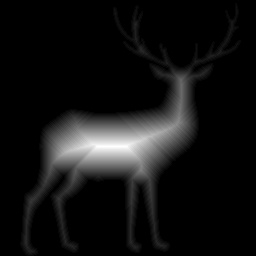
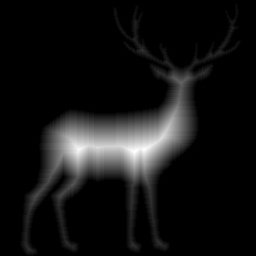
Refactor image processing code and fix variable initialization in Q class

diff --git a/HW3/110590004_hw3.py b/HW3/110590004_hw3.py
@@ -18,9 +18,9 @@ def problem(func):
 
 class Q:
     def __init__(self):
-        # self.origin_images = [cv2.imread(
-        #     './images/img' + str(i) + '.jpg') for i in range(1, 5)]
-        self.origin_images = [cv2.imread('./images/test_32.png')]
+        self.origin_images = [cv2.imread(
+            './images/img' + str(i) + '.jpg') for i in range(1, 5)]
+        # self.origin_images = [cv2.imread('./images/test_32.png')]
         self.images = []
         for i in range(1, self.origin_images.__len__() + 1):
             thresh = 0
@@ -135,9 +135,13 @@ class Q:
             if np.sum(neighbors[:, 0]) != 0 and np.sum(neighbors[:, 2]) != 0 and np.sum(neighbors[:, 1]) == 0:
                 return True
             # analog corner conditions
-            if neighbors[0, 0] != 0 and neighbors[2, 2] != 0 and (neighbors[0, 2] == 0 or neighbors[2, 0] == 0):
+            if neighbors[0, 0] != 0 and neighbors[2, 2] != 0 and neighbors[1, 2] == 0 and neighbors[2, 1] == 0 and neighbors[0, 1] != 0 and neighbors[1, 0] != 0:
                 return True
-            if neighbors[0, 2] != 0 and neighbors[2, 0] != 0 and (neighbors[0, 0] == 0 and neighbors[2, 2] == 0):
+            if neighbors[0,0 ] != 0 and neighbors[2, 2] != 0 and neighbors[1, 0] == 0 and neighbors[0, 1] == 0 and neighbors[1, 2] != 0 and neighbors[2, 1] != 0:
+                return True
+            if neighbors[0, 2] != 0 and neighbors[2, 0] != 0 and neighbors[1, 0] == 0 and neighbors[2, 1] == 0 and neighbors[0, 1] != 0 and neighbors[1, 2] != 0:
+                return True
+            if neighbors[0, 2] != 0 and neighbors[2, 0] != 0 and neighbors[1, 2] == 0 and neighbors[0, 1] == 0 and neighbors[1, 0] != 0 and neighbors[2, 1] != 0:
                 return True
             return False
 
@@ -147,9 +151,9 @@ class Q:
             # 8-distance transform
             print('8-distance transform...')
             for i in range(imgs.__len__()):
+                max_h = 0
                 width, height = imgs[i].shape
                 f0 = np.zeros((width, height))
-                fm = np.zeros((width, height))
                 for row in range(width):
                     for col in range(height):
                         if imgs[i][row][col] == 0:
@@ -157,6 +161,7 @@ class Q:
                         else:
                             f0[row][col] = 1
                 f_pre = deepcopy(f0)
+                fm = np.zeros((width, height))
                 local_max = np.zeros((width, height))
                 while True:
                     flag = 0
@@ -167,15 +172,17 @@ class Q:
                                 if f0[row][col] == 0:
                                     bar()
                                     continue
-                                neighbors = get_neighbors_8(
+                                neighbors = get_neighbors_4(
                                     f_pre, row, col, width, height)
-                                fm[row, col] = f0[row, col] + np.min(neighbors)
+                                fm[row, col] = f0[row, col] + min(
+                                    neighbors[0, 1], neighbors[1, 0], neighbors[1, 2], neighbors[2, 1])
                                 local_max[row, col] = 1 if fm[row,
                                                               col] >= np.max(neighbors) else 0
                                 if fm[row][col] != f_pre[row][col]:
                                     flag = 1
                                 bar()
                     f_pre = deepcopy(fm)
+
                     if flag == 0:
                         break
                 temp = np.zeros((width, height, 3))
@@ -187,91 +194,92 @@ class Q:
                     # print()
                 cv2.imwrite('./results/img' + str(i + 1) + '_q1-1.jpg', temp)
 
-                boundary_points = set()
-                for row in range(width):
-                    for col in range(height):
-                        if (fm[row][col] != 1):
-                            continue
-                        neighbors = get_neighbors_8(
-                            fm, row, col, width, height)
-                        for x in range(-1, 2):
-                            for y in range(-1, 2):
-                                if neighbors[x + 1][y + 1] == 0 and (row + x >= 0 and row + x < width and col + y >= 0 and col + y < height):
-                                    boundary_points.add((row + x, col + y))
+                # boundary_points = set()
+                # for row in range(width):
+                #     for col in range(height):
+                #         if (fm[row][col] != 1):
+                #             continue
+                #         neighbors = get_neighbors_8(
+                #             fm, row, col, width, height)
+                #         for x in range(-1, 2):
+                #             for y in range(-1, 2):
+                #                 if neighbors[x + 1][y + 1] == 0 and (row + x >= 0 and row + x < width and col + y >= 0 and col + y < height):
+                #                     boundary_points.add((row + x, col + y))
                 # draw boundary points
-                temp = np.zeros((width, height, 3))
-                for point in boundary_points:
-                    temp[point[0], point[1]] = [255, 255, 255]
-                cv2.imwrite('./debug/img' + str(i + 1) + '_boundary.jpg', temp)
-                # print('Boundary points:', boundary_points)
+                # temp = np.zeros((width, height, 3))
+                # for point in boundary_points:
+                #     temp[point[0], point[1]] = [255, 255, 255]
+                # cv2.imwrite('./debug/img' + str(i + 1) + '_boundary.jpg', temp)
+                # # print('Boundary points:', boundary_points)
 
-                
                 def chessboard_distance(p1, p2):
                     return max(abs(p1[0] - p2[0]), abs(p1[1] - p2[1]))
 
-                def find_feature_points(p, distance):
-                    feature_points = set()
-                    for point in boundary_points:
-                        if chessboard_distance(p, point) == distance:
-                            feature_points.add(point)
-                    return feature_points
-                # result = deepcopy(f0)
-                LR_Cdt = np.zeros((width, height))
-                f_pre = 1 - deepcopy(f0)
-                local_max = np.zeros((width, height))
-                while True:
-                    flag = 0
+                # def find_feature_points(p, distance):
+                #     feature_points = set()
+                #     for point in boundary_points:
+                #         if chessboard_distance(p, point) == distance:
+                #             feature_points.add(point)
+                #     return feature_points
+                result = deepcopy(fm)
+                # LR_Cdt = np.zeros((width, height))
+                # f_pre = 1 - deepcopy(f0)
+                # local_max = np.zeros((width, height))
+                # while True:
+                #     flag = 0
+                #     with alive_bar(width * height) as bar:
+                #         for row in range(width):
+                #             for col in range(height):
+                #                 if f0[row][col] == 0:
+                #                     bar()
+                #                     continue
+                #                 neighbors = get_neighbors_8(
+                #                     f_pre, row, col, width, height)
+                #                 LR_Cdt[row, col] = f0[row, col] + min(neighbors[2, 2], neighbors[2, 1], neighbors[1, 2])
+                #                 if LR_Cdt[row][col] != f_pre[row][col]:
+                #                     flag = 1
+                #                 bar()
+                #     f_pre = deepcopy(LR_Cdt)
+                #     if flag == 0:
+                #         break
+                # # LR_Cdt[-1, :] = 0
+                # # LR_Cdt[:, -1] = 0
+                # MAT = LR_Cdt
+                # for row in range(width):
+                #     for col in range(height):
+                #         print(int(MAT[row][col]), end=' ')
+                #     print()
+                # result = np.zeros((width, height))
+                # for row in range(width):
+                #     for col in range(height):
+                #         if (MAT[row][col] == 0):
+                #             result[row][col] = 0
+                #             continue
+                #         neighbors = get_neighbors_8(MAT, row, col, width, height)
+                #         if(max(neighbors[0,0], neighbors[0,1], neighbors[1,0]) <= MAT[row][col]):
+                #             result[row][col] = 1
+
+                print('Skeletonizing...')
+                max_h = int(np.max(fm))
+                for h in range(1, max_h + 1):
                     with alive_bar(width * height) as bar:
                         for row in range(width):
                             for col in range(height):
-                                if f0[row][col] == 0:
+                                if (fm[row][col] != h):
                                     bar()
                                     continue
+                                # F = find_feature_points((row, col), fm[row][col])
+                                # if len(F) >= 8:
+                                #     result[row, col] = 1
                                 neighbors = get_neighbors_8(
-                                    f_pre, row, col, width, height)
-                                LR_Cdt[row, col] = f0[row, col] + min(neighbors[2, 2], neighbors[2, 1], neighbors[1, 2])
-                                if LR_Cdt[row][col] != f_pre[row][col]:
-                                    flag = 1
+                                    fm, row, col, width, height)
+                                # if (max(neighbors[0, 0], neighbors[0, 1], neighbors[1, 0]) < fm[row, col]):
+                                #     result[row, col] = 1
+                                if (fm[row, col] < np.max(neighbors)):
+                                    result[row, col] = 0
+                                    if critical(get_neighbors_8(result, row, col, width, height)):
+                                        result[row, col] = 1
                                 bar()
-                    f_pre = deepcopy(LR_Cdt)
-                    if flag == 0:
-                        break
-                # LR_Cdt[-1, :] = 0
-                # LR_Cdt[:, -1] = 0
-                MAT = LR_Cdt  
-                for row in range(width):
-                    for col in range(height):
-                        print(int(MAT[row][col]), end=' ')
-                    print()
-                result = np.zeros((width, height))
-                for row in range(width):
-                    for col in range(height):
-                        if (MAT[row][col] == 0):
-                            result[row][col] = 0
-                            continue
-                        neighbors = get_neighbors_8(MAT, row, col, width, height)
-                        if(max(neighbors[0,0], neighbors[0,1], neighbors[1,0]) <= MAT[row][col]):
-                            result[row][col] = 1
-                 
-                print('Skeletonizing...')
-                # with alive_bar(width * height) as bar:
-                #     for row in range(width):
-                #         for col in range(height):
-                #             if (fm[row][col] == 0):
-                #                 bar()
-                #                 continue
-                #             # F = find_feature_points((row, col), fm[row][col])
-                #             # if len(F) >= 8:
-                #             #     result[row, col] = 1
-                #             neighbors = get_neighbors_8(
-                #                 fm, row, col, width, height)
-                #             if (max(neighbors[0, 0], neighbors[0, 1], neighbors[1, 0]) < fm[row, col]):
-                #                 result[row, col] = 1
-                #             # if (fm[row, col] < np.max(neighbors)):
-                #             #     result[row, col] = 0
-                #                 # if critical(get_neighbors_8(result, row, col, width, height)):
-                #                 #     result[row, col] = 1
-                #             bar()
                 for row in range(width):
                     for col in range(height):
                         result[row][col] = 0 if result[row][col] == 0 else 255
